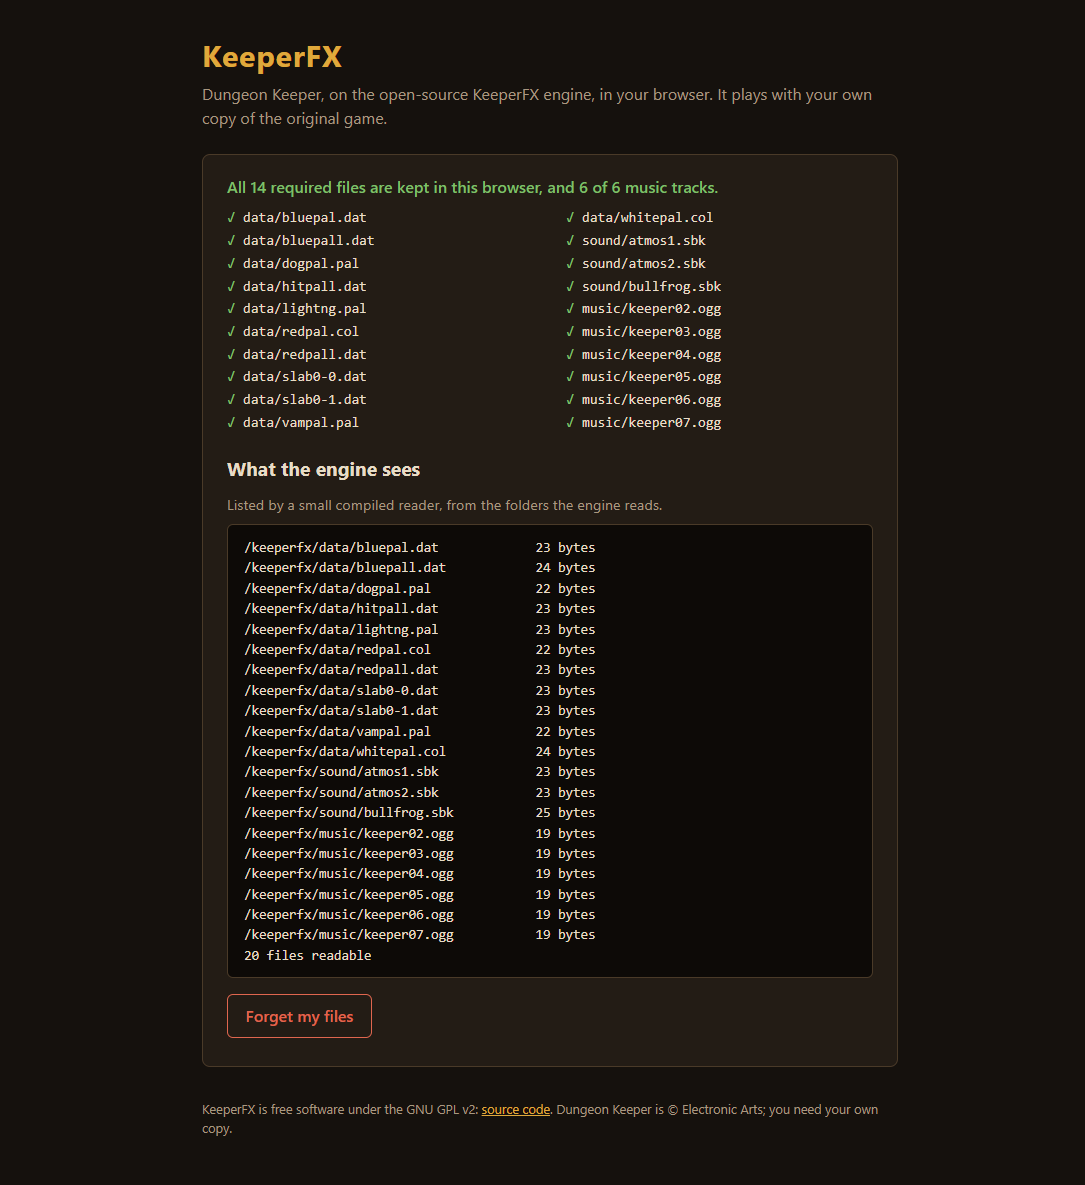
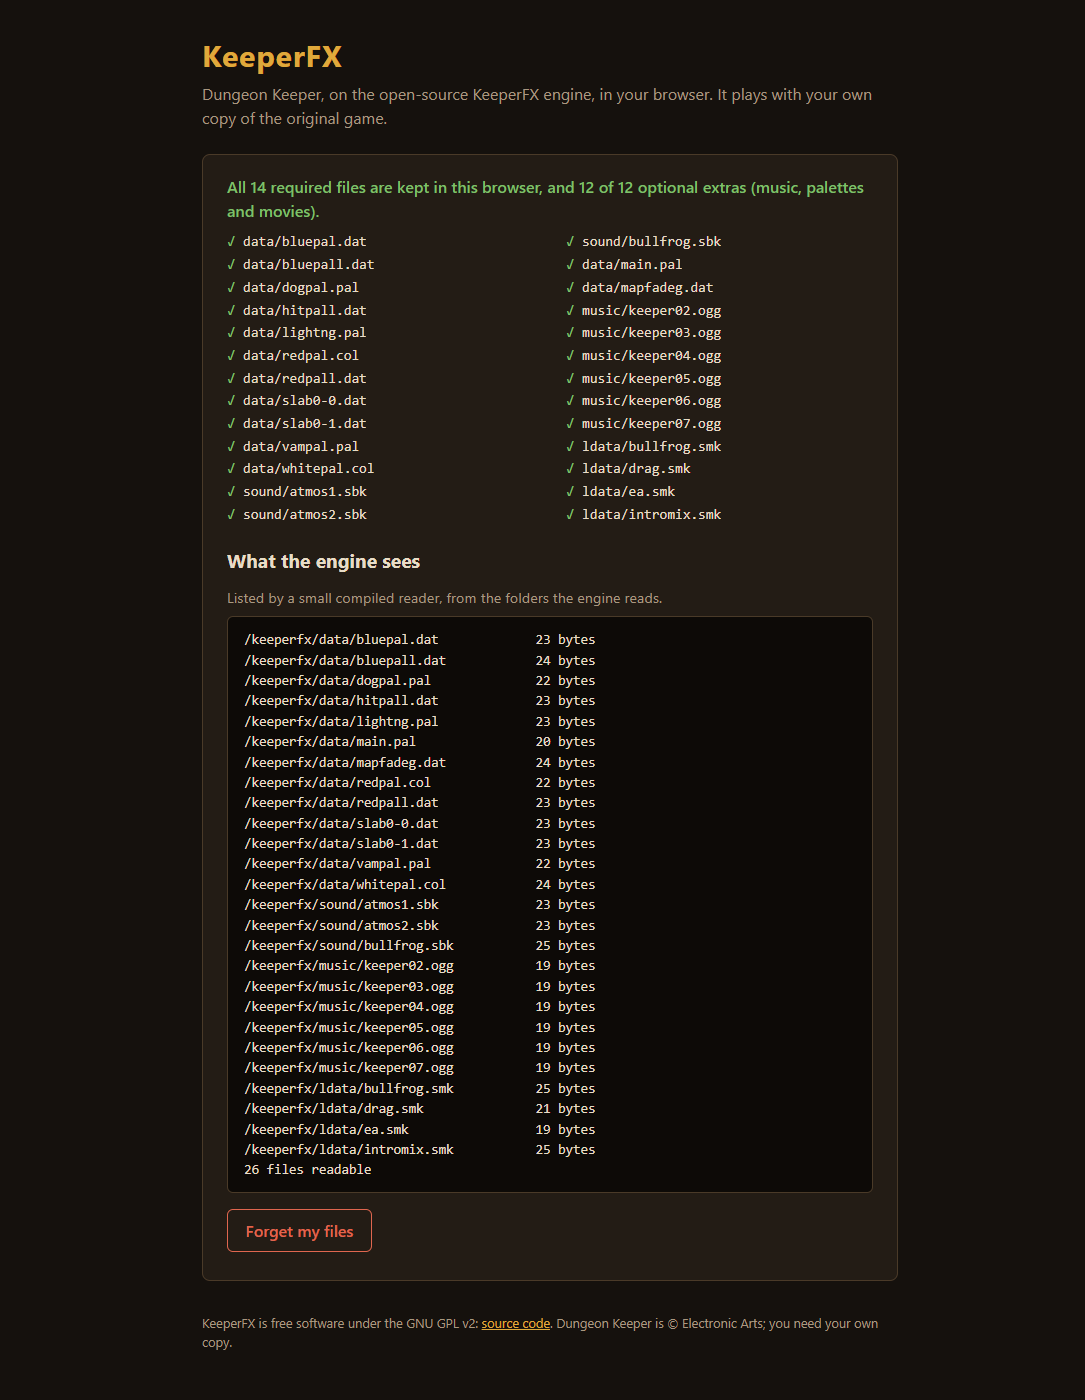
fix: reconcile /kfx and /keeperfx game (job 184)
The survey that landed alongside the game-files page calls the engine's game folder /kfx while the page keeps files under /keeperfx, and the survey also lists main.pal, mapfadeg.dat and the intro movies as optional extras the page doesn't pick up yet, so the two should be reconciled before the engine boots.

http://127.0.0.1:8800/jobs/184

Changed region(s): [[0.1825, 0.0312, 0.8212, 0.9055], [0.4562, 0.4059, 0.6083, 0.843], [0.1825, 0.9055, 0.8212, 0.9679]]

diff --git a/site/js/manifest.js b/site/js/manifest.js
@@ -1,7 +1,7 @@
 // The original Dungeon Keeper files KeeperFX needs, and how to find them in whatever the player
 // hands us. The list is KeeperFX's own installer's (dkfans/keeperfx-launcher-qt, src/dkfiles.cpp
 // at 04f7b3d), which checks names only; so do we. Like the installer we store every name in
-// lower case under data/, sound/ and music/, which is where the engine reads them.
+// lower case under data/, sound/, music/ and ldata/, which is where the engine reads them.
 
 export const REQUIRED = [
   "data/bluepal.dat",
@@ -20,24 +20,38 @@ export const REQUIRED = [
   "sound/bullfrog.sbk",
 ];
 
-// The game's music, as the digital editions ship it. The game plays without it.
+// Extras the game plays without, taken when the player has them:
+// - two palette files the older list in KeeperFX's docs/files_required_from_original_dk.txt
+//   names (the engine rebuilds mapfadeg.dat itself when it is missing);
+// - the music, as the digital editions ship it;
+// - the intro and outro movies the engine plays from ldata/ (src/front_fmvids.c), once the web
+//   build has a movie player (docs/PORTING-NOTES.md §3.6).
 export const OPTIONAL = [
+  "data/main.pal",
+  "data/mapfadeg.dat",
   "music/keeper02.ogg",
   "music/keeper03.ogg",
   "music/keeper04.ogg",
   "music/keeper05.ogg",
   "music/keeper06.ogg",
   "music/keeper07.ogg",
+  "ldata/bullfrog.smk",
+  "ldata/drag.smk",
+  "ldata/ea.smk",
+  "ldata/intromix.smk",
 ];
 
 export const ALL = [...REQUIRED, ...OPTIONAL];
 
 // A data/ or sound/ file must sit in a folder of that name, as the installer checks. The music
-// sits in the root of a digital edition or in music/ of a KeeperFX install; its names are
-// distinctive enough to take from any folder.
+// sits in the root of a digital edition or in music/ of a KeeperFX install, and where each
+// edition keeps its movies is unverified; both have names distinctive enough to take from any
+// folder.
+const ANY_FOLDER = ["music", "ldata"];
+
 function fits(wanted, candidate) {
   const [dir] = wanted.split("/");
-  return dir === "music" || candidate.parent === dir;
+  return ANY_FOLDER.includes(dir) || candidate.parent === dir;
 }
 
 // paths: the player's relative paths, e.g. "Dungeon Keeper/DATA/BLUEPAL.DAT".

diff --git a/site/js/storage.js b/site/js/storage.js
@@ -1,15 +1,15 @@
 // Keeps the player's game files in this browser, inside an Emscripten module's filesystem.
 //
 // The files live in IndexedDB through Emscripten's IDBFS, mounted at STORE. The engine reads its
-// game directory ROOT, whose data/, sound/ and music/ will also hold KeeperFX's own files, so the
-// player's files are not mounted over those folders: each is linked into place instead
-// (ROOT/data/bluepal.dat -> STORE/data/bluepal.dat). The engine build mounts the same way.
+// game directory ROOT, whose data/, sound/, music/ and ldata/ will also hold KeeperFX's own
+// files, so the player's files are not mounted over those folders: each is linked into place
+// instead (ROOT/data/bluepal.dat -> STORE/data/bluepal.dat). The engine build mounts the same way.
 
 import { ALL } from "./manifest.js";
 
 export const ROOT = "/keeperfx";
 export const STORE = `${ROOT}/player`;
-const FOLDERS = ["data", "sound", "music"];
+const FOLDERS = ["data", "sound", "music", "ldata"];
 
 function exists(FS, path) {
   return FS.analyzePath(path).exists;

diff --git a/site/js/app.js b/site/js/app.js
@@ -44,9 +44,9 @@ function showStored(stored) {
     show("ask");
     return;
   }
-  const music = OPTIONAL.filter((name) => stored.includes(name)).length;
+  const extras = OPTIONAL.filter((name) => stored.includes(name)).length;
   $("ready-status").textContent =
-    `All ${REQUIRED.length} required files are kept in this browser, and ${music} of ${OPTIONAL.length} music tracks.`;
+    `All ${REQUIRED.length} required files are kept in this browser, and ${extras} of ${OPTIONAL.length} optional extras (music, palettes and movies).`;
   fillList($("ready-list"), stored, "found");
   $("engine-view").textContent = engineView();
   show("ready");

diff --git a/tools/reader/reader.c b/tools/reader/reader.c
@@ -1,6 +1,6 @@
 /*
  * A stand-in for the engine, until the engine itself is built: it lists the player's game files
- * from the folders KeeperFX reads (data/, sound/ and music/ under its game directory) with plain
+ * from the folders KeeperFX reads (data/, sound/, music/ and ldata/ under its game directory) with plain
  * C stdio, the same calls the engine makes. Every file is opened and read to the end, so a name
  * listed here is a file the engine can load. Built by scripts/build_reader.py.
  */
@@ -74,6 +74,7 @@ int list_game_files(const char *root)
     readable += list_folder(root, "data");
     readable += list_folder(root, "sound");
     readable += list_folder(root, "music");
+    readable += list_folder(root, "ldata");
     printf("%d files readable\n", readable);
     fflush(stdout);
     return readable;

diff --git a/docs/GAME-FILES.md b/docs/GAME-FILES.md
@@ -11,25 +11,28 @@ Phase 3 of [PLAN.md](../PLAN.md). The page is `site/`; its screenshots are in `p
 - **Required** (14): `data/` bluepal.dat, bluepall.dat, dogpal.pal, hitpall.dat, lightng.pal,
   redpal.col, redpall.dat, slab0-0.dat, slab0-1.dat, vampal.pal, whitepal.col; `sound/`
   atmos1.sbk, atmos2.sbk, bullfrog.sbk.
-- **Optional** (6): `music/keeper02.ogg` to `keeper07.ogg`. The digital editions keep them in
-  their root folder; the game plays without them.
+- **Optional** (12), the extras the survey lists ([PORTING-NOTES.md §4.1](PORTING-NOTES.md)); the
+  game plays without any of them, and the page keeps whichever the player has:
+  - `data/main.pal` and `data/mapfadeg.dat`. The older list in KeeperFX's
+    `docs/files_required_from_original_dk.txt` names them; the installer dropped them (KeeperFX
+    ships or generates both). If the engine turns out to need them, move them to `REQUIRED`.
+  - `music/keeper02.ogg` to `keeper07.ogg`. The digital editions keep them in their root folder.
+  - `ldata/bullfrog.smk`, `drag.smk`, `ea.smk` and `intromix.smk`, the movies the engine plays
+    (`src/front_fmvids.c`). The first web build skips them.
 
 The installer checks names only, case-insensitively, and so does the page: without a real copy
-in hand we have no sizes or hashes to check against. The older list in KeeperFX's
-`docs/files_required_from_original_dk.txt` also names `main.pal` and `mapfadeg.dat`; the installer
-dropped them (KeeperFX ships or generates both), so the page does not ask for them. If the
-engine turns out to need them, add them to `REQUIRED`.
+in hand we have no sizes or hashes to check against.
 
 A `data/` or `sound/` file must sit in a folder of that name, anywhere under what the player
-chose, so the outer GOG, Steam or EA folder works as well as the inner one. When a name turns
-up more than once, the shallowest copy wins.
+chose, so the outer GOG, Steam or EA folder works as well as the inner one. The music and the
+movies are taken from any folder. When a name turns up more than once, the shallowest copy wins.
 
 ## Where the files live
 
 | Path in the Emscripten filesystem | What |
 |---|---|
 | `/keeperfx` | the engine's game directory |
-| `/keeperfx/player` | an IDBFS mount: the kept files, in IndexedDB (`data/`, `sound/`, `music/`, all lower case) |
+| `/keeperfx/player` | an IDBFS mount: the kept files, in IndexedDB (`data/`, `sound/`, `music/`, `ldata/`, all lower case) |
 | `/keeperfx/data/<name>` etc. | a symlink to `/keeperfx/player/data/<name>` |
 
 The player's files are linked in rather than mounted over `data/`, because KeeperFX's own GPL
@@ -49,7 +52,7 @@ py -3.10 scripts/serve.py --port <port>
 node scripts/prove_files.mjs --url http://localhost:<port>/ --debug-port <another port> --work <scratch> --shots docs/proof
 ```
 
-`tools/reader/reader.c` stands in for the engine: it lists `data/`, `sound/` and `music/` under
+`tools/reader/reader.c` stands in for the engine: it lists `data/`, `sound/`, `music/` and `ldata/` under
 `/keeperfx` with plain stdio, opening and reading every file. `prove_files.mjs` makes fake
 installs (right names, dummy bytes) and drives the served page in headless Chrome: a folder
 missing two files is refused by name, a complete folder is kept, it survives a reload, "forget

diff --git a/docs/PORTING-NOTES.md b/docs/PORTING-NOTES.md
@@ -239,8 +239,9 @@ constructed.
     `scrshots`, `creatrs`, `campgns`, `levels`, `multiplayer` (`config.c:1280-1395`).
   - `INSTALL_PATH` in `keeperfx.cfg` moves only `ldata`, `levels`, campaign levels and media.
   
-  → The web build **`chdir`s to a game root such as `/kfx` before `main`** (via `callMain`
-  arguments or `preRun`).
+  → The web build **`chdir`s to the game root `/keeperfx` before `main`** (via `callMain`
+  arguments or `preRun`). That is the folder the game-files page already fills
+  ([GAME-FILES.md](GAME-FILES.md)).
 - **Case sensitivity.** `bflib_fileio.c:46-116` matches only the *last* path component
   case-insensitively, and only for `LbFileOpen`/`LbFileExists`. Many opens bypass it: `fopen` in
   6 files, `unzOpen`, `MIX_LoadAudio`, `luaL_dofile`, `avformat_open_input`.
@@ -387,6 +388,10 @@ ldata/   optional (movies; stubbed at first)
   intromix.smk  bullfrog.smk  ea.smk  drag.smk                     <- presence in the originals unverified
 ```
 
+The page (`site/js/manifest.js`) takes exactly this list: the `data/` and `sound/` files as
+required, the rest as optional extras. It looks for the movies in any folder, since where each
+edition keeps them is unverified.
+
 - The engine's hard requirements are in `src/vidmode_data.cpp:103-108` and `vidmode.c:129`.
 - The page follows the launcher's rule: **every `data/` and `sound/` file listed as "required" by
   the launcher must be present.** A folder where only the six engine-required files are present
@@ -439,8 +444,10 @@ levels, `lang` text built into `fxdata/gtext_*.dat`, the graphics (`FXGraphics`:
 
 - **Storage.** The data is small: the originals are under 1 MB, the KeeperFX pack about 400 MB
   unpacked. It all lives in **IDBFS**:
-  - `/kfx`, the game root: the originals plus the KeeperFX pack, with `data/` writable
-  - `/kfx/save`
+  - `/keeperfx`, the game root: the originals plus the KeeperFX pack, with `data/` writable
+    - `/keeperfx/player` holds the originals; the page links each one into `data/`, `sound/`,
+      `music/` or `ldata/` ([GAME-FILES.md](GAME-FILES.md))
+  - `/keeperfx/save`
   - `/libsdl`, SDL's pref path
 - **Before `main`.** `FS.syncfs(true)` runs under `addRunDependency`, and the module is created
   with `noInitialRun`, then `callMain` (OpenRCT2).
